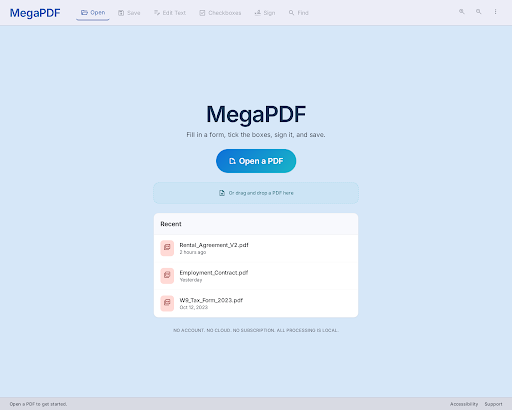
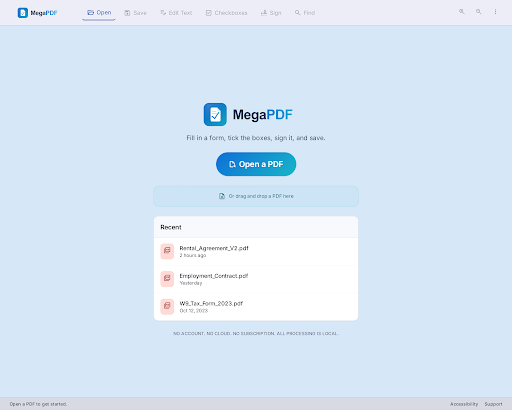
Design: the real lockup on every screen, and the mobile set (#73)
Stitch was placing a generated raster for the logo. That raster is 1:1 with
the lockup floating in a wide field of off-white padding, so an h-8 toolbar
slot rendered it about fourteen pixels wide — a speck, and no amount of
resizing could fix it, because the asset was the problem.

Every screen now pastes assets/branding/logo.svg inline and sizes it by
height with width:auto. Desktop welcome carries it twice: the toolbar
anchor and the hero, which replaces the plain-text product name. The three
mobile screens carry it in the app bar.

Also captures the four screens that were only living in the Stitch project:
the grouped toolbar, its condensed fallback, the text-formatting bar, and
the mobile set.

Claude-Session: https://claude.ai/code/session_013sNbNHhkbbDB83RkGkdQCz

diff --git a/docs/design-assets/stitch/README.md b/docs/design-assets/stitch/README.md
@@ -12,11 +12,24 @@ Generated by Google Stitch from `design.md`, via the Stitch MCP server
 **These are explorations, not decisions.** They are worth keeping because each
 one makes a concrete suggestion about a weakness `design.md` names:
 
-| | Suggestion |
-|---|---|
-| `01-document-view` | Emphasises **Sign** over the other fifteen actions, rather than the flat row we ship |
-| `02-welcome` | Gives the empty state a job — recents with dates, a drag target, and the "no account, no cloud" promise placed where it sells. Reorganises the toolbar around the README's four features (Open, Save, Edit Text, Checkboxes, Sign, Find) instead of sixteen equal buttons |
-| `03-signature` | Offers *draw* and *use a photo* with equal weight — which matches how people actually have a signature |
+| | Device | Suggestion |
+|---|---|---|
+| `01-document-view` | desktop | Emphasises **Sign** over the other fifteen actions, rather than the flat row we ship |
+| `02-welcome` | desktop | Gives the empty state a job — recents with dates, a drag target, and the "no account, no cloud" promise placed where it sells. The lockup carries the product name as the hero, so no text heading repeats it |
+| `03-signature` | desktop | Offers *draw* and *use a photo* with equal weight — which matches how people actually have a signature |
+| `04-toolbar-professional` | desktop | Groups the sixteen buttons into Open/Save · Sign · Edit · Tools · history · zoom · view, with labels under icons |
+| `05-toolbar-condensed` | desktop | The same grouping with labels dropped — what a narrow window has to fall back to |
+| `07-toolbar-professional-logo` | desktop | The grouped toolbar with the brand lockup anchoring the top-left |
+| `13-font-text-formatting` | desktop | Face, size and weight for added text (#43) as a contextual bar, not a dialog |
+| `10-mobile-editor` | mobile | Four-item bottom bar — Sign, Edit Text, Checkboxes, Save — with the page/zoom pill floating above it |
+| `11-mobile-signature` | mobile | The signature sheet at phone width |
+| `12-mobile-text-formatting` | mobile | Formatting controls docked above the bottom bar while a text box is selected |
+| `09-brand-logo` | — | Stitch's raster of the lockup. **Not usable** — 1:1 with heavy padding and an off-white ground, so it renders as a speck in any toolbar. The screens use inline SVG from `assets/branding/logo.svg` instead |
+
+**The logo is inline SVG, never an image.** Stitch's first pass placed a
+generated raster in the toolbar; because that raster is square and mostly
+padding, an `h-8` slot showed a ~14px speck. Every screen now pastes
+`assets/branding/logo.svg` inline and sizes it by height with `width:auto`.
 
 **Where they diverge from the product, the product is right:**
 
